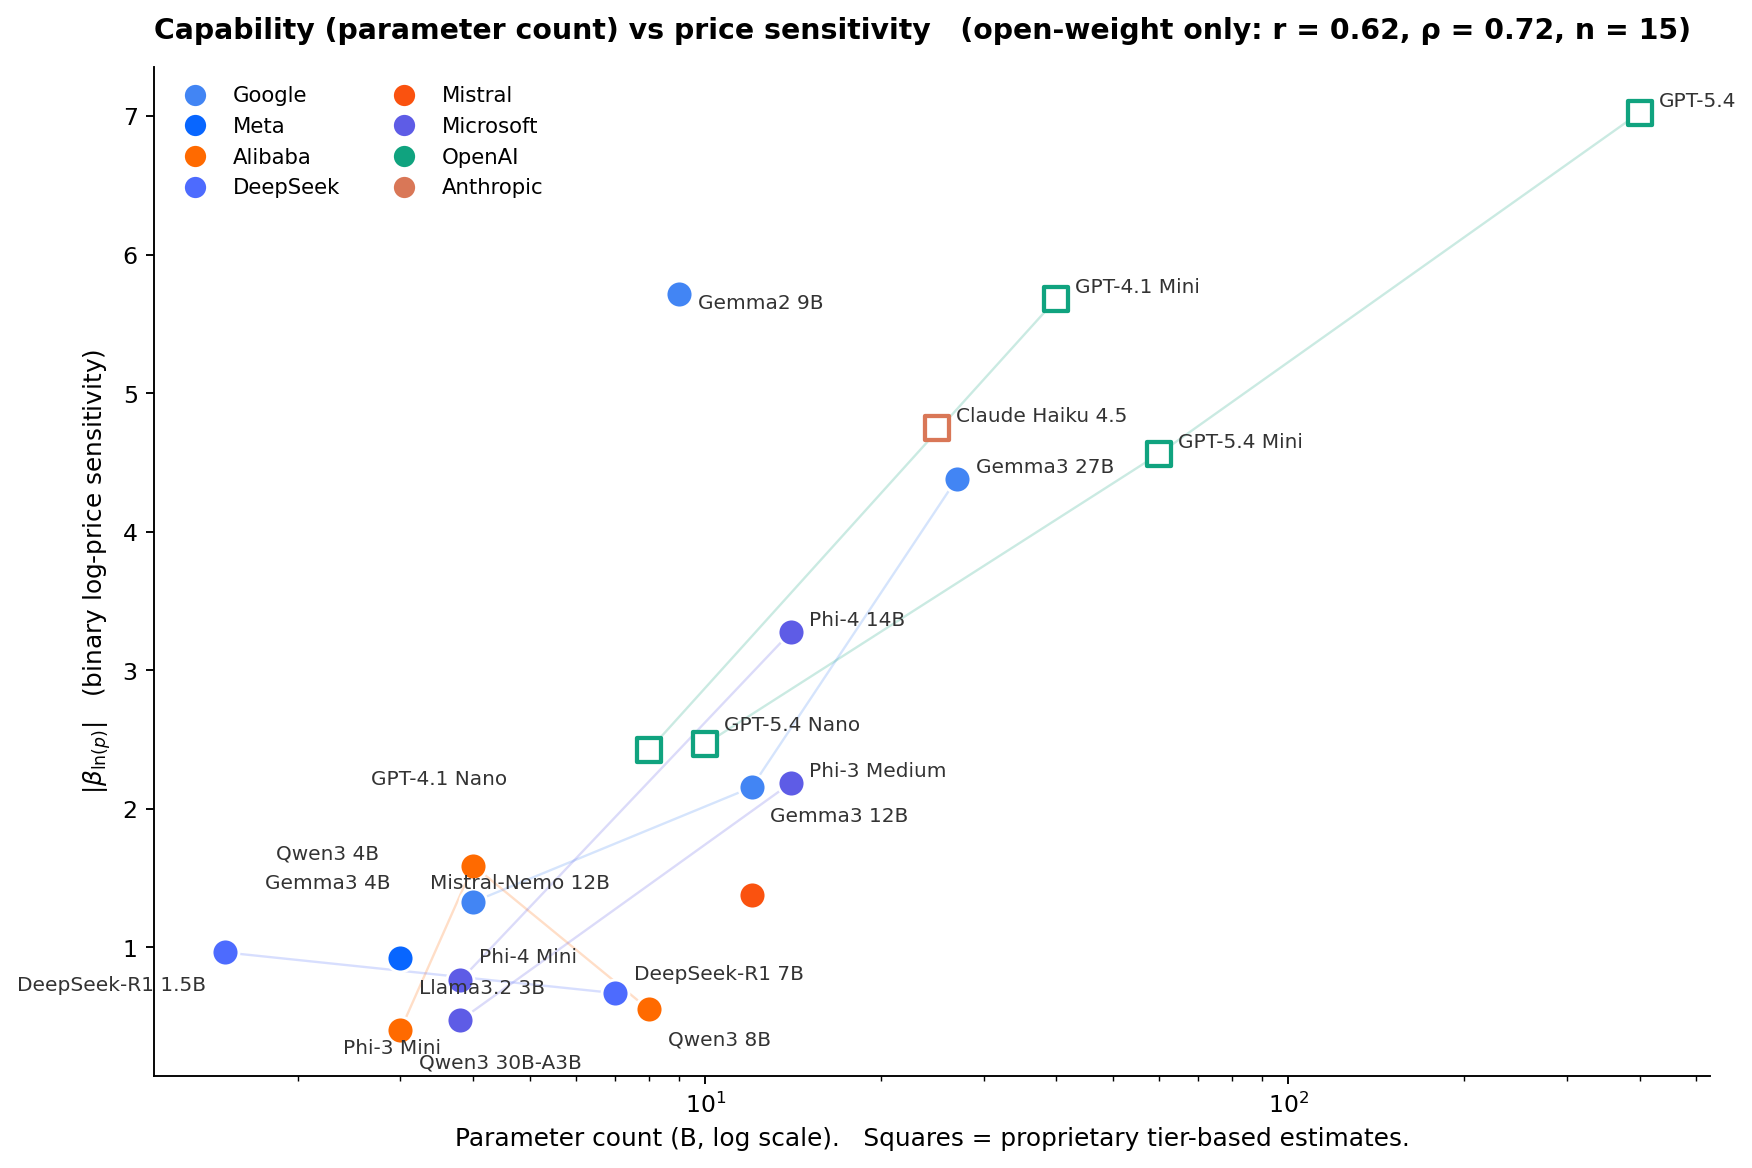
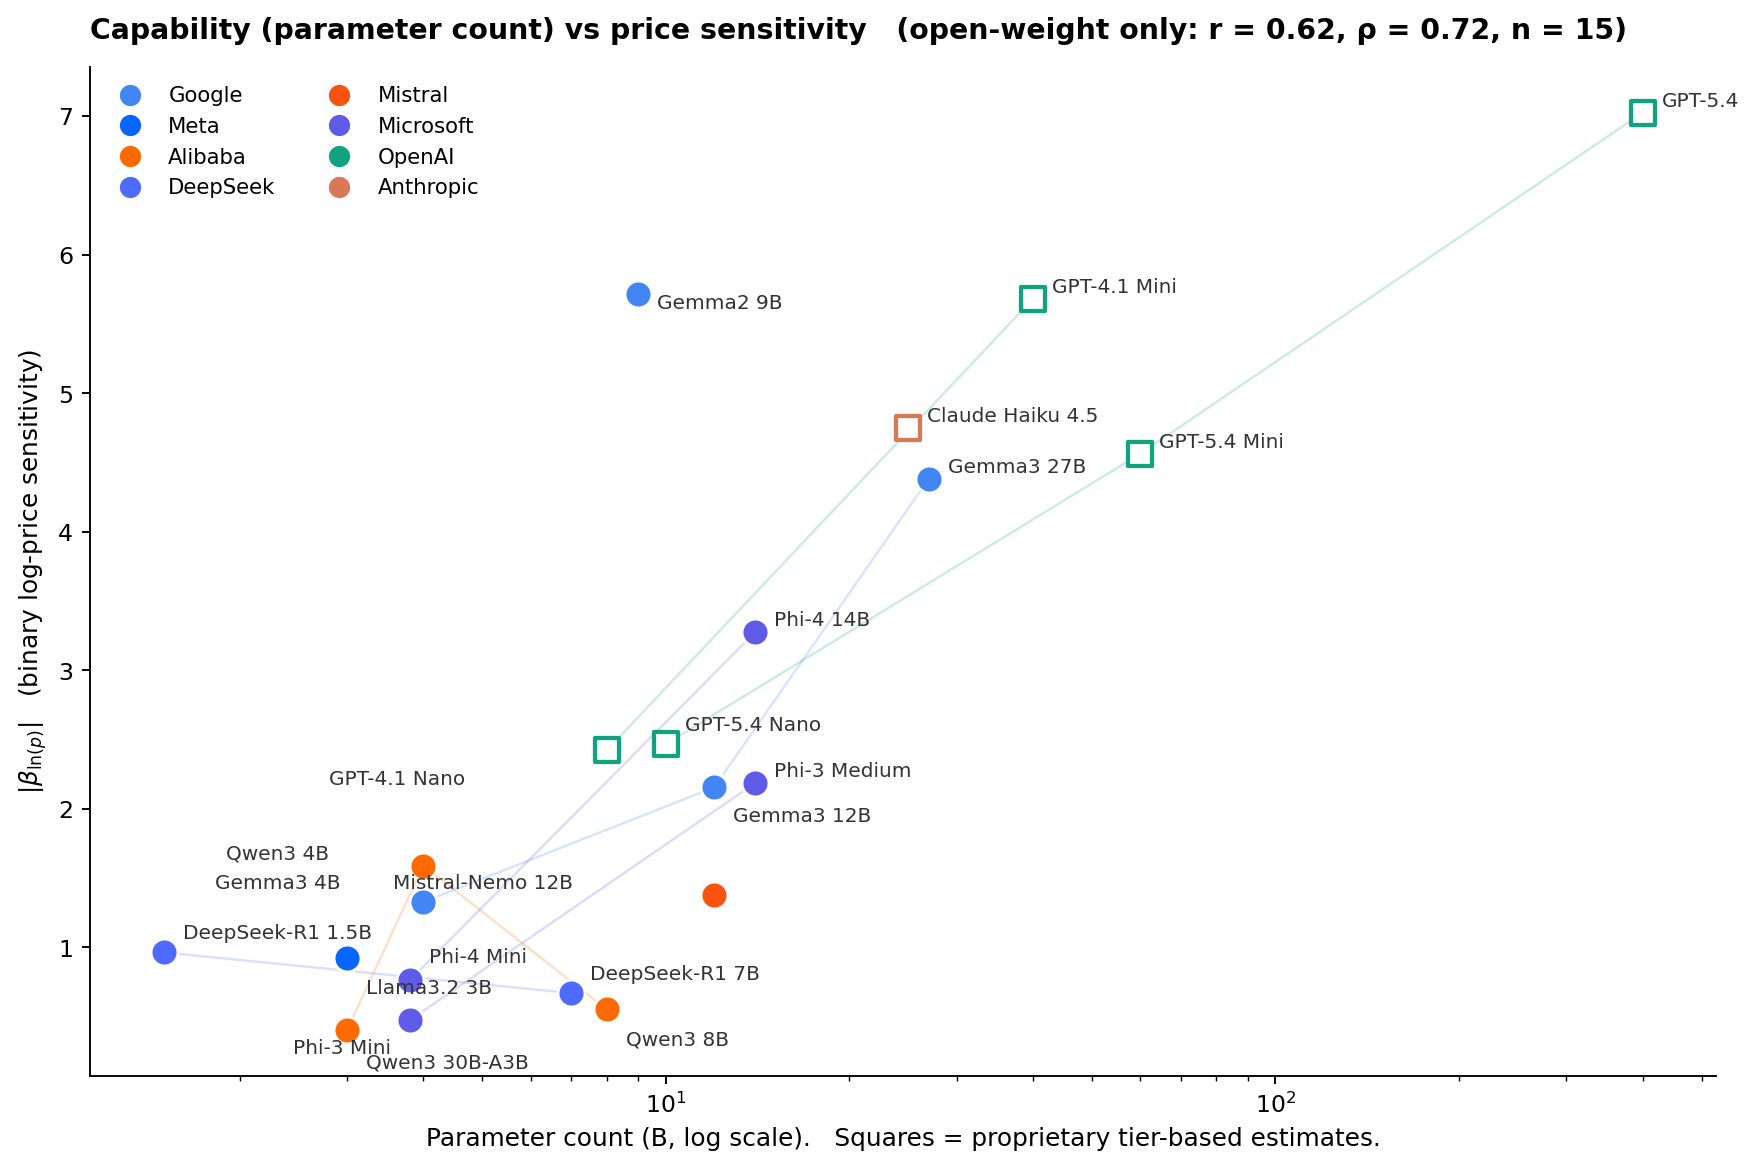
Fix label clipping and legend overlap in scaling/binary-vs-ternary figures
- fig_scaling: DeepSeek-R1 1.5B label moved from left of point (clipped
  by y-axis) to right of point.
- fig_binary_vs_ternary: legend moved from lower-right (overlapping with
  Phi-2 / Gemma3 1B labels and points) to lower-left, where the panel
  is empty.
- figures.py: redirect deciles import from the gitignored
  nonparametric_decile_coefficients.csv to the committed
  web/data/decile_pooled.csv so the module loads in a clean clone.

diff --git a/analysis/figures.py b/analysis/figures.py
@@ -43,7 +43,7 @@ PROVIDER_COLORS = {
 
 triage = pd.read_csv(os.path.join(DATA, 'triage.csv'))
 personality = pd.read_csv(os.path.join(DATA, 'personality.csv'))
-deciles = pd.read_csv(os.path.join(BASE, 'nonparametric_decile_coefficients.csv'))
+deciles = pd.read_csv(os.path.join(DATA, 'decile_pooled.csv'))
 brands = pd.read_csv(os.path.join(DATA, 'brand_matrix.csv'), index_col=0)
 
 engaged = triage[triage['verdict'] == 'engaged']['model'].tolist()
@@ -507,7 +507,7 @@ def fig_binary_vs_ternary():
     ax_log.set_title(
         f'Log-price   (Spearman ρ = {rho_log:.2f}, Pearson r = {r_log:.2f})',
         fontsize=10.5, loc='left', pad=8)
-    ax_log.legend(loc='lower right', frameon=False, fontsize=9)
+    ax_log.legend(loc='lower left', frameon=False, fontsize=9)
 
     # --- Linear panel ---
     for i, row in m.iterrows():
@@ -677,7 +677,7 @@ def fig_scaling():
     # crowded bottom-left get bespoke positions to avoid overlap.
     DEFAULT_OFFSET = (8, 5)
     LABEL_OFFSET = {
-        'DeepSeek-R1 1.5B': (-8, -14),   # left, below
+        'DeepSeek-R1 1.5B': (8, 8),      # right, above (point at x-axis edge)
         'Llama3.2 3B':      (8, -13),    # right, below
         'Qwen3 30B-A3B':    (8, -14),    # right, below
         'Phi-3 Mini':       (-8, -12),   # left, below
@@ -695,7 +695,7 @@ def fig_scaling():
     }
     HALIGN = {  # horizontal alignment override when nudging left
         'Qwen3 4B': 'right', 'Gemma3 4B': 'right', 'Mistral-Nemo 12B': 'right',
-        'DeepSeek-R1 1.5B': 'right', 'Phi-3 Mini': 'right',
+        'Phi-3 Mini': 'right',
         'GPT-4.1 Nano': 'right',
     }
     for _, r in e.iterrows():
